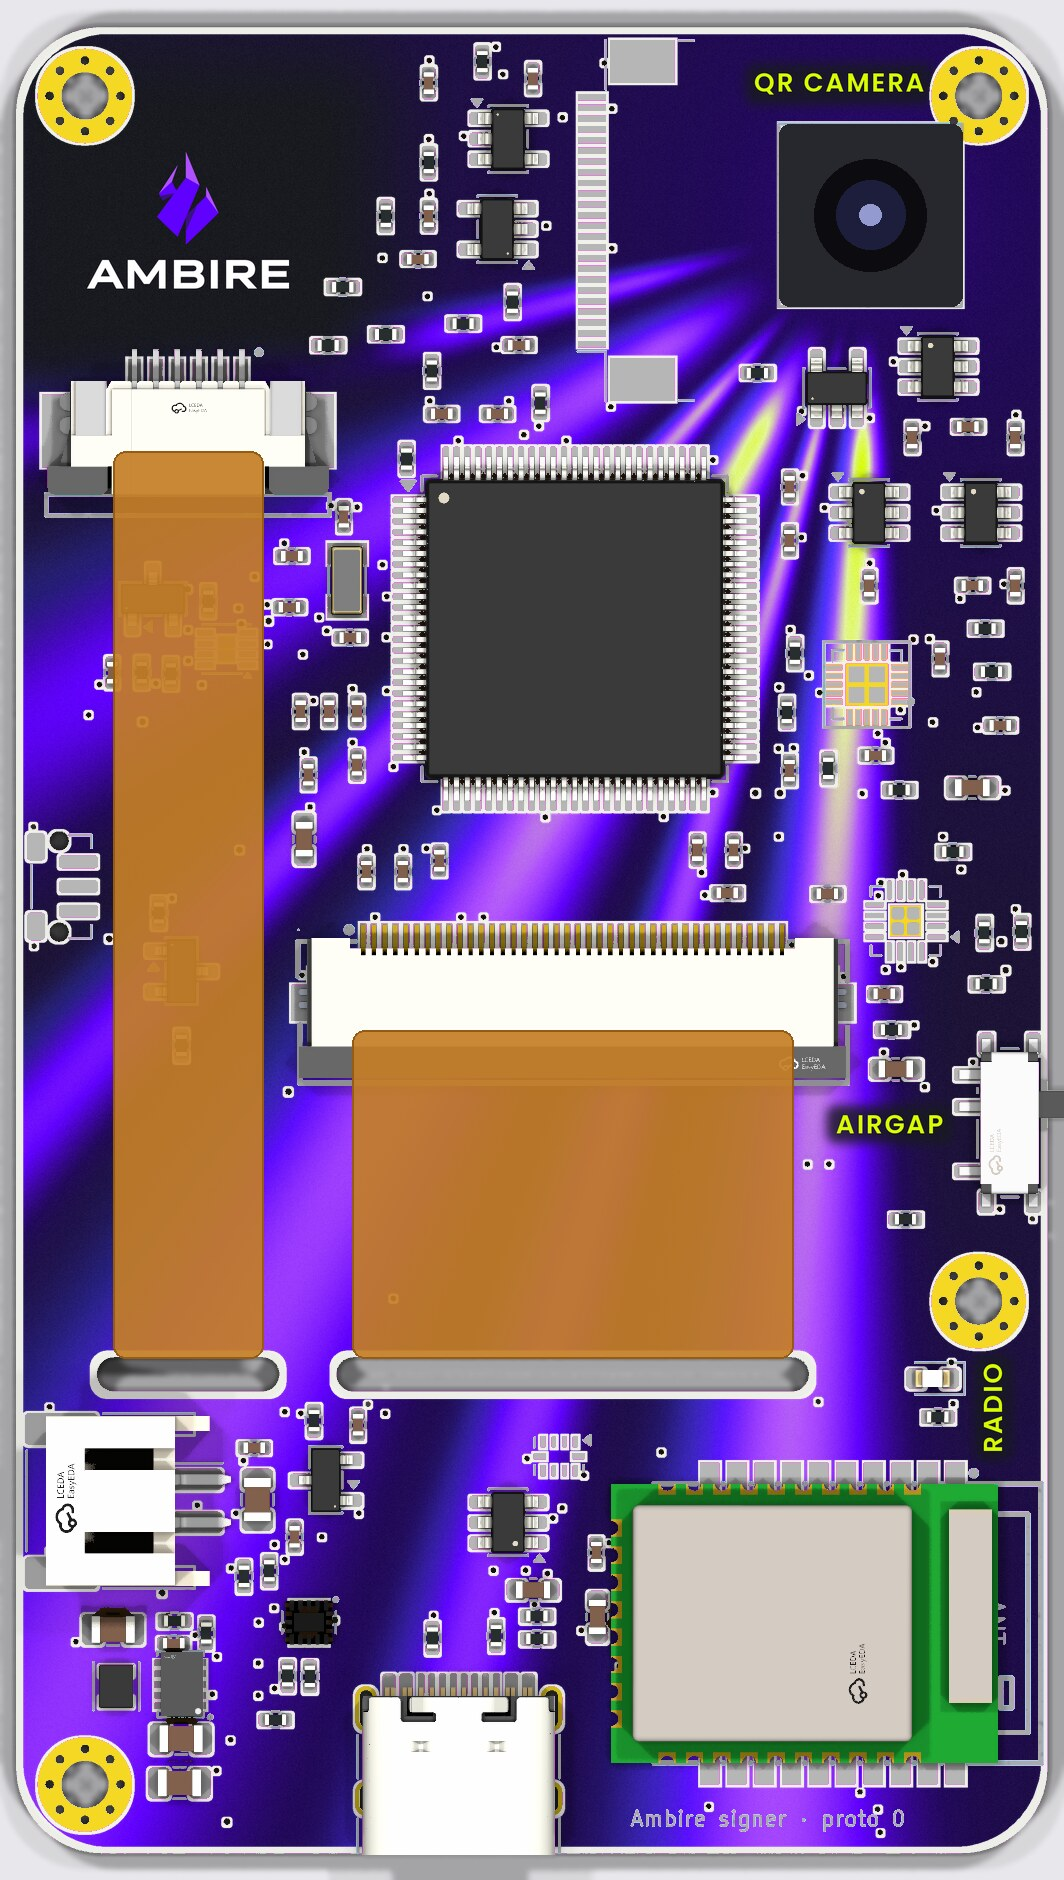
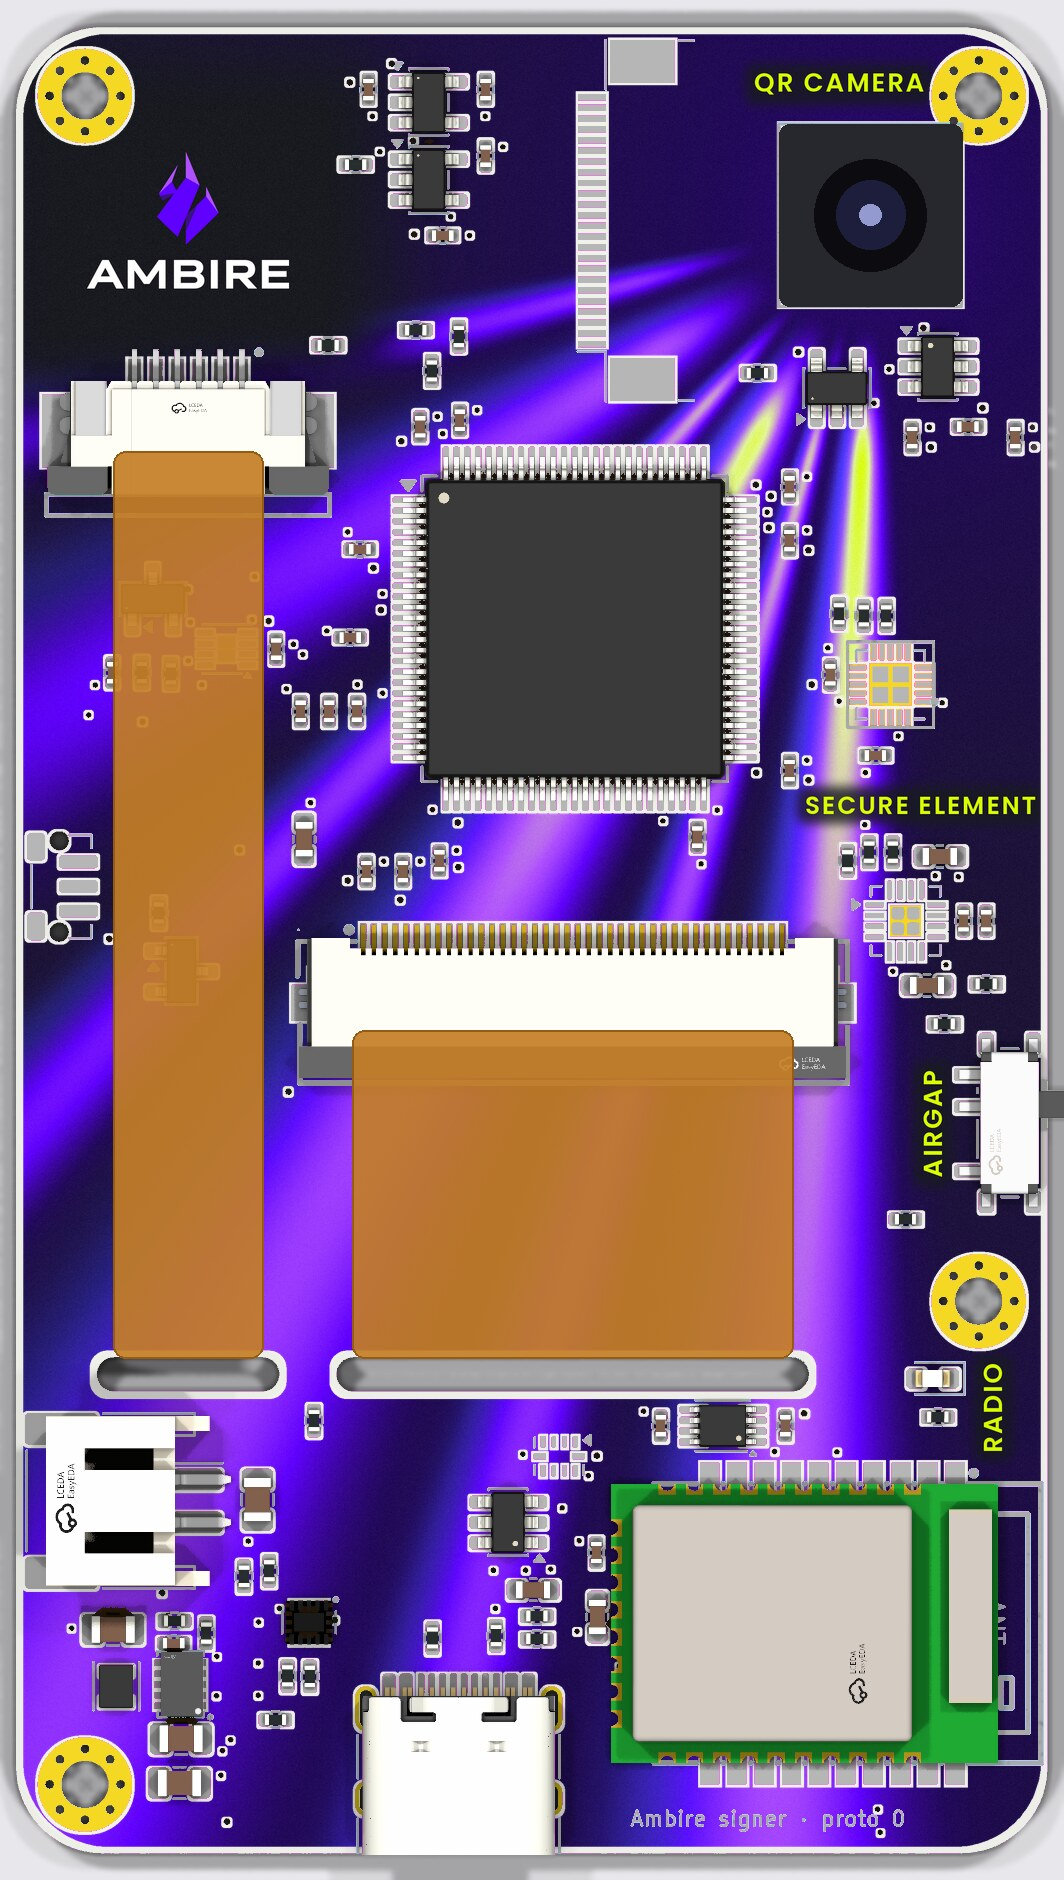
Docs and UV art for the reworked board
design.md: stack-up roles (In1 3.3 V plane, In2 solid GND), the TXU0202 radio
isolation and its UART pads, no RTC/LSE, fixed camera DVDD, the routing
keep-outs, the camera flex bow decision, the gauges, and the firmware settings
the hardware now relies on (BOOT0 via option bytes, PA0 pull-up, XCLK on
TIM3_CH2, RX pull-up while the radio is off). UV art rebuilt on the new
placement; SECURE ELEMENT fits again.

diff --git a/docs/design.md b/docs/design.md
@@ -20,10 +20,10 @@ inside a secure element and never leave it; recovery is the Safe's other owners.
 | MCU | STM32U585VIT6Q, LQFP100 (Cortex-M33, TrustZone, 2 MB / 786 KB, AES+SAES+PKA+HASH+TRNG, DCMI, USB FS) | C5270986 — 54 in stock |
 | Secure element | NXP SE050E2HQ1 (secp256k1 + P-256 + Ed25519 keys generated inside, PIN objects with retry counters), own I2C bus. Fallback on the same land: SE051C2 | C5190917 (594 at JLC; DigiKey ~14k) |
 | Radio | Ebyte E73-2G4M08S1C (nRF52840 module, BLE only), behind the airgap gate | C356849 |
-| Airgap | MSK12C02 slide switch → TS3USB221A (USB data) + 74LVC1G02 / TPS22917 (radio power) + 2× SN74LVC1T45 | all JLC |
+| Airgap | MSK12C02 slide switch → TS3USB221A (USB data) + 74LVC1G02 / TPS22917 (radio power) + TXU0202 (radio UART isolation) | all JLC |
 | Display | NHD-2.4-240320AF-CSXP-CTP on Molex 54132-4062 + 6-pin 1.0 mm touch FPC | connectors JLC, panel hand-fitted |
-| Camera | OV2640 24-pin DVP module, ~66° lens refocused to ~15 cm, on a Jushuo AFC07 FPC connector; AVDD 2.8 V / DVDD 1.3 V (adjustable) / DOVDD 3.3 V | connector JLC, module hand-fitted |
-| Power | USB-C → BQ25185 charger (250 mA) → TPS63802 3.3 V buck-boost; MAX17048 battery gauge; XC6206 always-on for the STM32 RTC domain; soft-latch power button | all JLC, BQ25185/TPS63802/XC6206/USB-C/ESD as on the Nano |
+| Camera | OV2640 24-pin DVP module, ~66° lens refocused to ~15 cm, on a Jushuo AFC07 FPC connector; AVDD 2.8 V / DVDD 1.3 V (fixed TLV70313) / DOVDD 3.3 V | connector JLC, module hand-fitted |
+| Power | USB-C → BQ25185 charger (250 mA) → TPS63802 3.3 V buck-boost; MAX17048 battery gauge; soft-latch power button | all JLC, BQ25185/TPS63802/XC6206/USB-C/ESD as on the Nano |
 
 Overlap with GridCore: charger, buck-boost, always-on LDO, USB-C and ESD, the
 display panel with its connector and backlight pump, the slide switch, the
@@ -48,9 +48,10 @@ What makes it hold even against hostile firmware:
   here let firmware pull a floating switch to 0.3 V; found in review.)
 - The 1k in the switch's AIR throw also covers a switch that makes before it
   breaks: its other throw is GND.
-- The UART to the radio passes two SN74LVC1T45 buffers whose radio side is the
-  radio's own rail. With that rail at 0 V both ports are high-impedance (TI
-  SCES515N 7.3.6), so firmware cannot back-power the module through its I/O.
+- The UART to the radio passes a TXU0202 translator whose radio side, and its
+  enable, are the radio's own rail. With that rail at 0 V both ports are
+  high-impedance (TI SCES942A 9.3.4) and every pin holds Ioff, so firmware cannot
+  back-power the module through its I/O.
 - A 100k pull-up makes "airgapped" the state of a switch caught between
   positions.
 - The **RADIO light hangs on the radio's rail itself**: it is lit exactly when
@@ -111,9 +112,13 @@ touch flex is merged into the TFT flex.
 
 ## Board
 
-- 48 × 85 mm, 4 layers, 1.0 mm (the chin grew 3 mm in the routing pass). In1 is solid GND (enforced by
-  `board/wallet.kicad_dru`); In2 is GND poured around power runs; signals on
-  the outer layers.
+- 48 × 85 mm, 4 layers, 1.0 mm (the chin grew 3 mm in the routing pass).
+  **Stack-up: F.Cu / In1 = 3.3 V plane / In2 = solid GND / B.Cu.** Every part
+  sits on B.Cu, whose return currents run in the plane next to it, so In2 is the
+  unbroken GND; every 3.3 V pin and decap drops a via to In1, and the front, the
+  free layer for the buses between blocks, references the 3.3 V plane.
+  `board/wallet.kicad_dru` enforces both (In2: GND only; In1: 3.3 V, plus the
+  MCU's 1.1 V core link between pins 49 and 98).
 - **All parts on the back face (B.Cu).** The front face carries only the cell
   and the panel, plus the **programming pads** (MCU SWD and radio SWD). They are
   reachable by pogo pins before assembly and buried under the cell afterwards.
@@ -124,8 +129,10 @@ touch flex is merged into the TFT flex.
   power button plunger exits the east edge; its land is KiCad's ALPS SKRT land
   with pad 1 narrowed and the tab pads trimmed 0.05 mm, because the stock land
   leaves 0.1 mm between copper and the locating holes (JLC wants 0.2 mm).
-- The 32 kHz crystal is a 6 pF FC-135 on 8 pF caps, as ST asks of the LSE
-  oscillator, within 2 mm of its pins.
+- No 32 kHz crystal and no RTC backup supply: nothing on the device needs the
+  time across power-off (a Safe transaction carries no timestamp; the PIN retry
+  counter lives in the SE050). USB runs on the internal 48 MHz oscillator trimmed
+  from the USB frames, timeouts on the internal 32 kHz one.
 - Four M2 holes: two at the north corners, one at the panel's south-west corner
   (the board's south-west corner belongs to the antenna), one in the south-east
   corner.
@@ -140,37 +147,37 @@ touch flex is merged into the TFT flex.
 
 ## Placement for routing
 
-- **The placement is the owner's, by hand** (2026-10-15, 43 parts moved from the
-  scripted seed). Related parts sit with courtyards touching and decoupling caps
-  against their pins; there is no spacing rule. The scripted seed
-  (`newBoard.py` + the ratsnest pass of `scripts/optimizePlacement.py`) only
-  exists to start from.
-- **Routability is judged by routing, never by a proxy.** `scripts/trialRoute.sh`
-  autoroutes every net but GND on a copy (KiCadRoutingTools). On the hand-worked
-  board, `scripts/placeLoop.py` runs optimize → partial route → judge with every
-  hand-placed or copper-touched part locked. A crossing-count quench of the
-  remaining parts made it **worse** in every setting tried (2 → 3–6 failed nets
-  in the remainder): the proxy ignores existing copper, and the moves close the
-  channels the hand routing leaves. Placement changes on a hand-worked board are
-  targeted fixes, not a global pass.
-- **Block wiring is pre-routed; bundles are the human's.** `scripts/partialRoute.py`
-  routes only the wiring inside each functional block (an IC and the passives
-  most tied to it) plus GND fanout vias, with every existing track and via fixed
-  (never ripped). Wiring between blocks is left on the ratsnest. Results on the
-  2026-10-15 handoff board:
-  - the USB pair from the MCU to the USB switch is routed **first**, as a pair,
-    before the block wiring takes the room at the MCU's west pins (otherwise it
-    is the one bus that does not get through);
-  - the camera bus (all CAM_* nets, including its pull resistors) and VDD11's
-    link across the package are left to the human, so nothing of the pre-route
-    runs diagonally under the MCU where the camera bus crosses;
-  - what is left, autorouted as a judge: 2 nets fail (in the camera knot below),
-    against 5 failed (both USB lines, V3V3, VBAT_RTC, VBUS_SENSE) on the
-    hand-routed board without the pre-route.
-- **The camera knot.** The DCMI data pins on the MCU's west side (D0–D3, XCLK,
-  PWDN on pins 62–67) reach J_CAM in a different order than the connector's, and
-  DCMI is fixed to those pins (the pin optimizer finds no better order). Both
-  routers leave 2 of these 6 unrouted; they need a layer swap by hand.
+- **The placement is the owner's, by hand**, with targeted fixes where the
+  routing showed a problem. Related parts sit with courtyards touching and
+  decoupling caps against their pins; there is no spacing rule.
+- **Routability is judged by routing, never by a proxy.** A crossing-count
+  quench of the parts not hand-placed made the remainder *harder* to route in
+  every setting tried: the proxy ignores existing copper. Placement changes on a
+  hand-worked board are targeted fixes, each checked by routing.
+- **Keep-outs the routing needs are KiCad rule areas** (`scripts/refreshKeepouts.py`
+  redraws them from `newBoard.py` after a connector moves):
+  - **camera fan-in**: 3.1 mm of bare board east of J_CAM's contacts, where all 24
+    lines enter (the contacts face east; the camera LDOs used to fill it);
+  - **MCU west escape**: the strip outside pins 52–67, where the camera and SE
+    lines drop to the front layer.
+- **Blocks are pre-routed; the buses between them are the human's.**
+  `scripts/partialRoute.py` routes the wiring inside each block on the back
+  copper (the parts' side), a via to the 3.3 V plane for every 3.3 V pin and
+  decap, and a GND via for every cap and IC (0.25 mm clear of all pads), on top
+  of the hand-routed copper, which it never rips. A link longer than 7 mm (a
+  pull-up at the far end of a bus, a test pad across the board) or a power link
+  longer than 10 mm is left with its bus.
+- **Gauges on what is left** (2026-10-16): KiCadRoutingTools routes every
+  remaining net (0 failed, 119 vias); the full humanRouter finish routes them
+  all too (0 unconnected). Both are only a measure of how easy the hand route
+  is; their copper is not kept.
+- **Camera pins** are ordered on the north side as J_CAM orders them: XCLK comes
+  from timer TIM3 on PB5 (not the clock-output pin in the west-side knot) and
+  RST sits east of VSYNC, D6 and D7. PWDN is tied low at the connector.
+- **J_CAM is not where a stock camera tail lies flat.** A stock 20.5–21 mm module
+  bows 4.2–4.8 mm (`checkFpc.py` reports it); a ~16.5 mm custom flex lies flat.
+  Moving J_CAM 4.5 mm east instead would put its body over the MCU's north pins
+  and cost every north camera pin a via.
 - Small parts may sit under the display flex tails; `checkFpc.py` fails any tall
   part there.
 - MCU pins are chosen so each bus leaves the package facing its destination
@@ -191,11 +198,12 @@ touch flex is merged into the TFT flex.
 - The RADIO light sits directly under the south-west hole, next to the radio
   module, in the strip between the screw head and the antenna keep-out, so the
   west bridge into the chin stays open.
-- **The radio gate** (NOR, load switch, two UART buffers and their passives)
-  sits in its own west quadrant, around the corner from the MCU's radio UART. RADIO_3V3 and
-  the two radio-side UART lines run down the west edge to the module.
-- The front copper has no parts at all: use it as the free routing layer (drop
-  a via at the pin). In1 is GND only; In2 carries power.
+- **The radio gate** (NOR, load switch and their passives) sits in the
+  north-west quadrant. The UART translator sits between the TFT slot and the
+  radio module, right over the module's two north-edge UART pads, so no radio
+  line runs under the module; the two MCU-side lines come over the west bridge.
+- The front copper has no parts at all: it is the layer for the buses between
+  blocks (drop a via at the pin).
 - Signals reach the chin over three bridges between the slots and the edges:
   west (≈ 6 mm usable beside the hole), middle (2.6 mm) and east (3.7 mm).
 - **Keep-outs are KiCad rule areas** (DRC flags any part moved into them): both
@@ -219,21 +227,31 @@ device off, the cell charges and nothing else runs; there is no charge light.
 1. **Airgap switch direction**: confirm with a meter which lever position joins
    the common pin to pin 1 (3.3 V = AIRGAP). If it is the opposite of the silk,
    swap the AIR/ONLINE ends in `src/blocks/Radio.tsx`.
-2. **Camera connector pad order**: the 24-pin DVP modules are numbered from
-   both ends by different vendors (Ai-Thinker vs Espressif, pin N ↔ 25 − N).
-   This board uses Ai-Thinker's. Check the chosen module's flex against pads 1
-   and 24 before the first power-on; if reversed, change `J_CAM`'s pad map in
-   `board/footprints.json` to pad = 25 − pin.
-3. **Camera choice and focus**: OV2640, ~66° lens, 21 mm flex, focus set at
-   ~150 mm (stock modules are focused far and read phone screens poorly).
+2. **Camera connector contact face**: vendors number the 24-pin DVP flex from
+   either end (Ai-Thinker vs Espressif, pin N ↔ 25 − N), but that is numbering
+   only; the signal order along the flex is the same. This board follows
+   Ai-Thinker's numbering, which matches the modules checked so far once the
+   lens faces away from the board. What to check on a sample is which face of
+   the flex carries the contacts (the AFC07 is bottom-contact).
+3. **Camera choice and focus**: OV2640, ~66° lens, focus set at ~150 mm (stock
+   modules are focused far and read phone screens poorly). Best-documented
+   module: Union Image ZY-XSF3M2640B (8.5 mm head, 68.7°); a stock 20.5–21 mm
+   flex bows ~4.5 mm here, a ~16.5 mm custom flex (SincereFirst offers it) lies
+   flat. The head is 5.4–5.9 mm tall on every drawing found: check the case.
    Bench it against an SC031GS global-shutter module on an animated UR before
    committing; the SC031GS would need 1.8 V I/O and level translators (a board
    change). Check the module flex's contact face against the bottom-contact
    connector on a sample.
 4. **Touch tail contact face**: inherited from the Nano's analysis; confirm on
    the first panel before reflowing the touch connector.
-5. **Radio UART pins**: P0.13 (module TX) and P0.24 (module RX). The module
-   manual marks P1.10/P1.11 as low-frequency I/O, so they are not used.
+5. **Radio UART pins**: P0.31 (module TX, pad 9) and P0.30 (module RX, pad 10).
+   The TXU0202's inputs carry 5 MΩ pull-downs, so both lines idle low until
+   driven: discard one framing error at start-up, and keep the MCU's RX pin
+   pull-up on while the radio is off.
+7. **Firmware settings the hardware relies on**: BOOT0 is tied to GND, so the
+   ROM bootloader is entered through the option bytes over SWD; the power
+   button's BTN_N uses PA0's internal pull-up (kept through Standby/Shutdown);
+   XCLK for the camera is TIM3_CH2 PWM on PB5 (~20 MHz).
 6. **Secure element generation**: the board carries the current SE050E2
    (the C1 is "previous generation" in AN12436). Same land as the C1 and the
    SE051C2 fallback. Firmware must use applet 7.x behaviour: I2C at or below
@@ -255,7 +273,8 @@ $KICAD_PY scripts/syncBoard.py          # dry run; --apply writes (close KiCad f
 $KICAD_PY scripts/checkPinNets.py       # IC pads vs datasheet pin tables, on the board copper
 $KICAD_PY scripts/checkFpc.py           # connector / lever / antenna orientation, tail lengths
 scripts/trialRoute.sh                   # autoroute a copy: failed nets / vias (placement arbiter)
-$KICAD_PY scripts/partialRoute.py --out DIR [--first-nets ..] [--skip-nets ..]   # block wiring only, on a copy
+$KICAD_PY scripts/refreshKeepouts.py        # redraw the keep-out rule areas after a connector moves
+$KICAD_PY scripts/partialRoute.py --out DIR  # block wiring on a copy, hand copper kept
 $KICAD_PY scripts/placeLoop.py --base COMMIT   # optimize unlocked parts -> partial route -> judge, logged
 $KICAD_PY scripts/checkParts.py board/wallet.kicad_pcb   # each land vs the land JLC places that part on
 python3 scripts/jlcStock.py             # live JLC stock for every part number

diff --git a/README.md b/README.md
@@ -43,7 +43,8 @@ $KICAD_PY scripts/syncBoard.py           # dry run; --apply writes (close KiCad 
 $KICAD_PY scripts/checkPinNets.py        # IC pads vs datasheet pin tables, on the copper
 $KICAD_PY scripts/checkFpc.py            # connector/lever/antenna orientation, tail lengths
 scripts/trialRoute.sh                    # autoroute a copy with KiCadRoutingTools: failed nets / vias
-$KICAD_PY scripts/partialRoute.py --out /tmp/pr --first-nets USB_DP_MCU,USB_DN_MCU   # block wiring only, on a copy
+$KICAD_PY scripts/refreshKeepouts.py        # redraw the keep-out rule areas after a connector moves
+$KICAD_PY scripts/partialRoute.py --out /tmp/pr   # block wiring on a copy, hand copper kept
 $KICAD_PY scripts/checkParts.py board/wallet.kicad_pcb   # lands vs JLC's land per part
 ```
 
